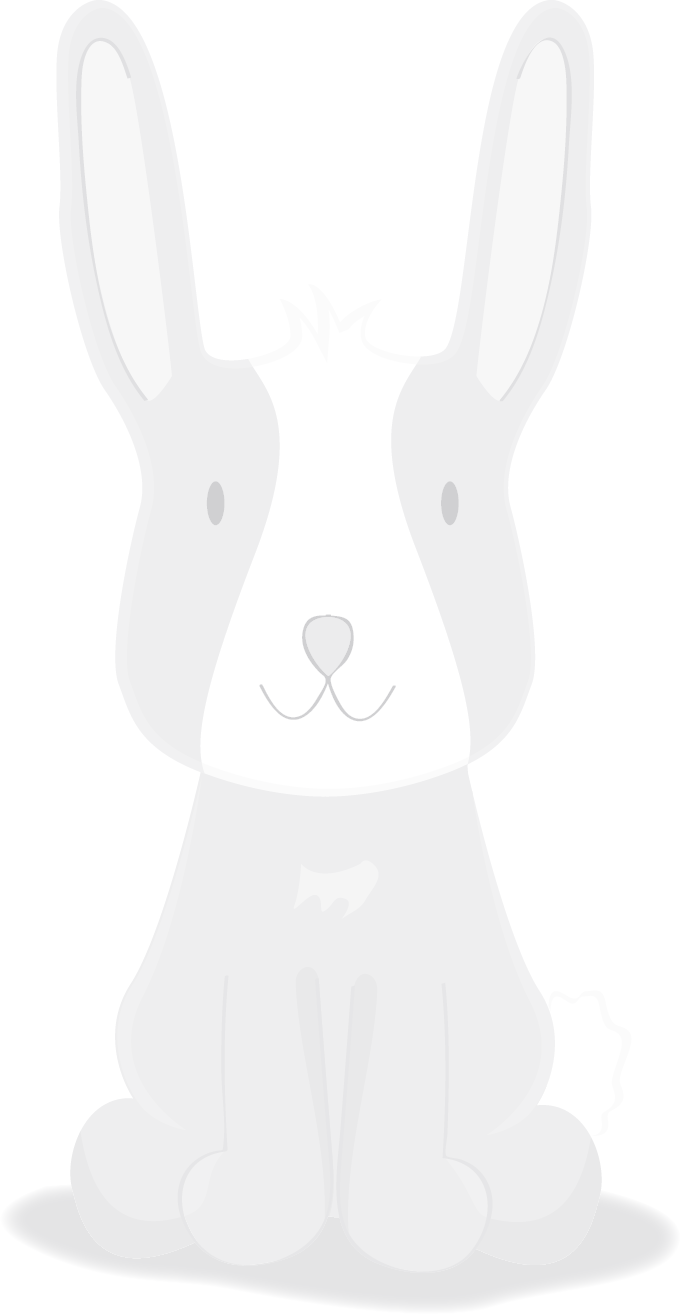
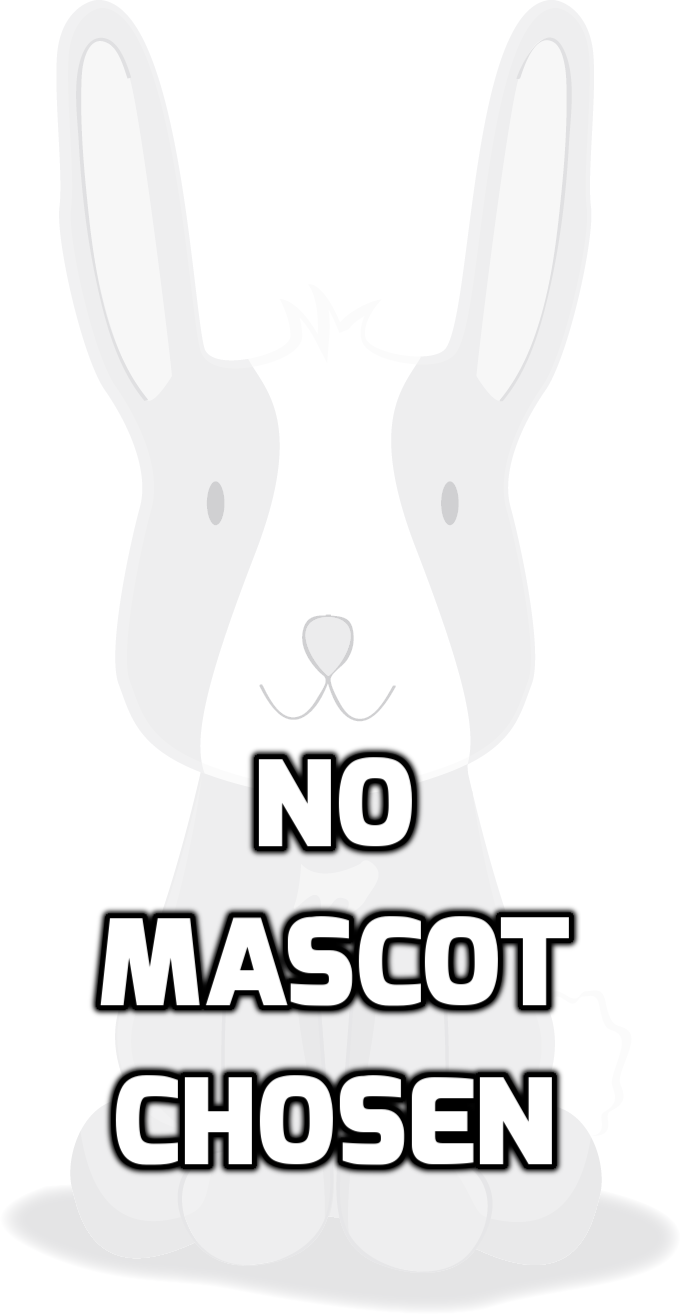
Finished choose mascot, added mascot view to dash, fixed page titles

Changed region(s): [[0.1235, 0.6865, 0.8647, 0.7801], [0.1544, 0.8113, 0.8338, 0.9049], [0.3397, 0.5616, 0.6176, 0.6553]]

diff --git a/Capstone.Web/Controllers/ChildController.cs b/Capstone.Web/Controllers/ChildController.cs
@@ -110,6 +110,7 @@ namespace Capstone.Web.Controllers
 
             Session["child"] = child;
 
+            // check if child needs to create mascot
             if (child.Mascot == null)
             {
                 return RedirectToAction("ChooseMascot");
@@ -118,7 +119,7 @@ namespace Capstone.Web.Controllers
             return RedirectToAction("Dashboard");
         }
 
-        [Route("ChildDashboard/")]
+        [Route("ChildDashboard")]
         public ActionResult Dashboard()
         {
             // check if logged in
@@ -153,18 +154,32 @@ namespace Capstone.Web.Controllers
         }
 
         [HttpPost]
-        public ActionResult ChooseMascot(ChildModel child)
+        public ActionResult ChooseMascot(ChooseMascotModel chooseMascot)
         {
+            // check if child already has mascot
             ChildModel getChild = Session["child"] as ChildModel;
-            MascotModel newMascot = new MascotModel();
+            ChildModel checkChild = childDAL.GetChild(getChild.UserName);
+            checkChild.Mascot = mascotDAL.GetMascot(checkChild);
+
+            if (checkChild.Mascot != null)
+            {
+                ModelState.AddModelError("mascot-exists", "You have already chosen a mascot");
+                return View("Dashboard");
+            }
 
             // assign properties to new mascot
-            newMascot.Child_Id = getChild.Child_Id;
-            newMascot.Mascot_Image = child.Mascot.Mascot_Image;
+            MascotModel newMascot = new MascotModel();
+            newMascot.Child_Id = checkChild.Child_Id;
+            newMascot.Mascot_Image = chooseMascot.Mascot_Image;
 
-            // create mascot, retrieve, and re-save child into session
+            // create mascot
             mascotDAL.CreateMascot(newMascot);
-            ChildModel saveChild = childDAL.GetChild(getChild.UserName);
+
+            // retrieve new child model after mascot create
+            ChildModel saveChild = childDAL.GetChild(checkChild.UserName);
+            saveChild.Mascot = mascotDAL.GetMascot(saveChild);
+
+            // save updated child in session
             Session["child"] = saveChild;
 
             return RedirectToAction("Dashboard");

diff --git a/Capstone.Web/Models/ViewModels/ChooseMascotModel.cs b/Capstone.Web/Models/ViewModels/ChooseMascotModel.cs
@@ -1,0 +1,12 @@
+using System;
+using System.Collections.Generic;
+using System.Linq;
+using System.Web;
+
+namespace Capstone.Web.Models.ViewModels
+{
+    public class ChooseMascotModel
+    {
+        public string Mascot_Image { get; set; }
+    }
+}
